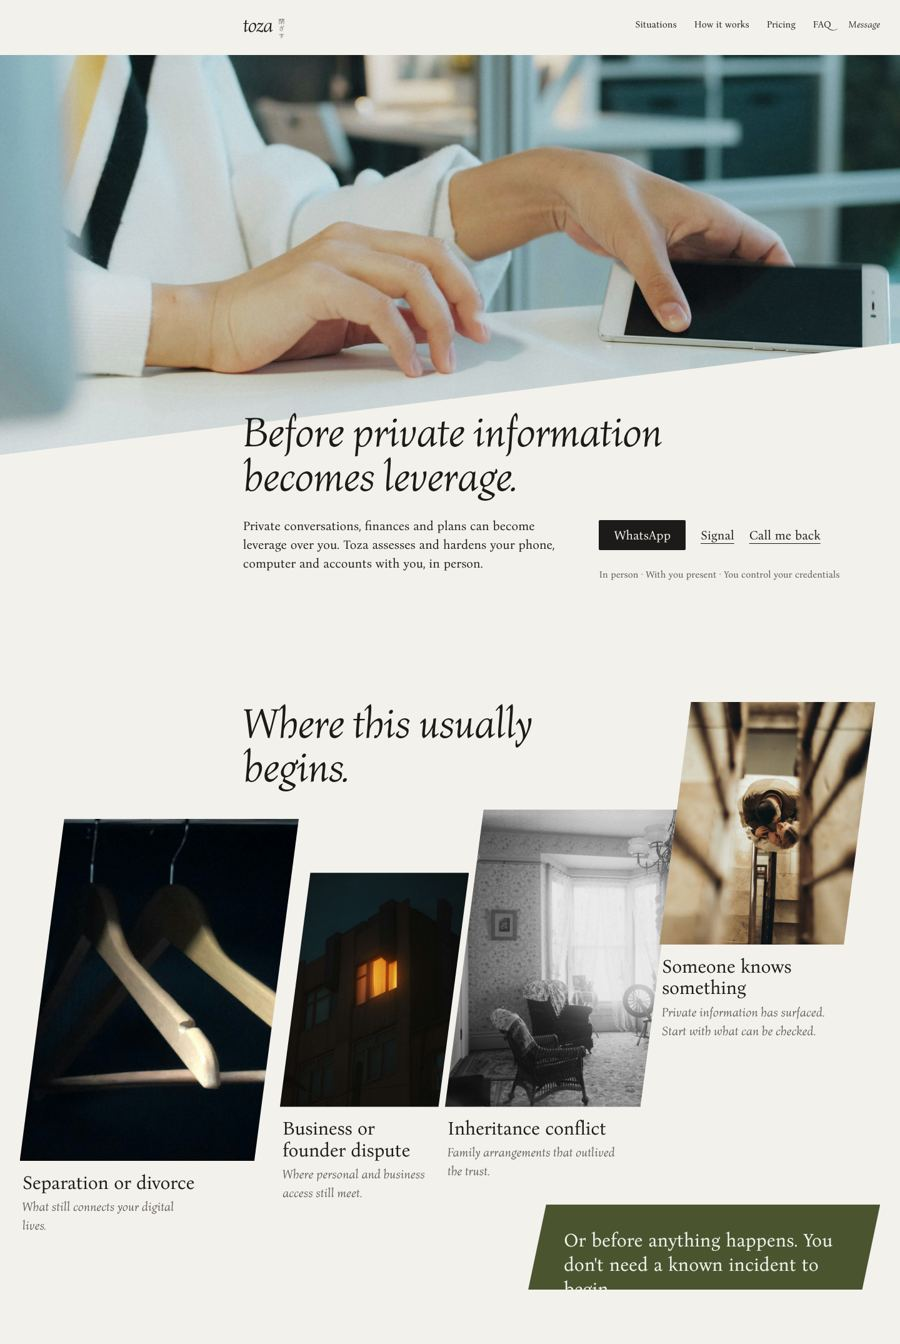
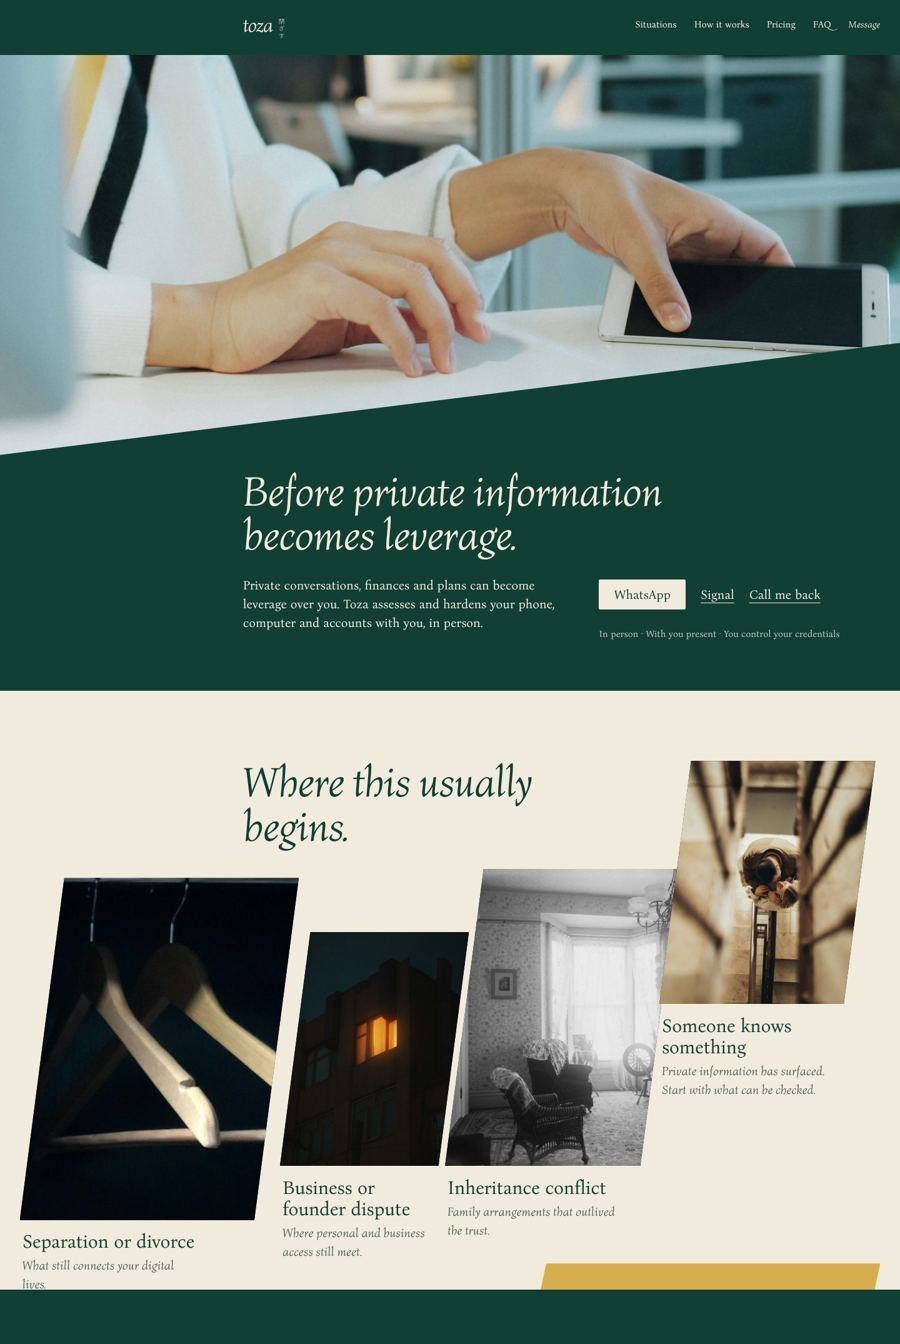
Five radically different full-field palettes for board 2 (D42)
Claude-Session: https://claude.ai/code/session_01GXSN2Gm78K28T2xn8h7HYg

diff --git a/site/index.html b/site/index.html
@@ -42,24 +42,19 @@ h1{font-weight:400;font-style:italic;font-size:clamp(2.25rem,1.4rem + 3vw,3.75re
     </div>
   </section>
 
-  <h2 style="font-weight:400;font-style:italic;font-size:2rem;margin:0 0 .5rem">Five palettes</h2>
-  <p class="lead">Same board, five colour systems. Each passes WCAG AA for text. Click a palette to open the board in it.</p>
+  <h2 style="font-weight:400;font-style:italic;font-size:2rem;margin:0 0 .5rem">Five palettes, round 2</h2>
+  <p class="lead">Same board, five radically different colour systems: each colours the whole field and switches the situations to a second field. Every text pair passes WCAG AA. Click to open the board in it.</p>
   <div class="palettes">
-    <article class="pal"><a href="b2-quiet/?p=p1"><img src="palettes/p1.jpg" alt=""><h3>1 · Washi and sumi</h3><p>Paper and ink, with deep moss for the one field. Calm, crafted, Japanese restraint.</p>
-      <div class="sw"><span style="background:#F3F1EC;outline:1px solid #ddd"></span><span style="background:#E7E4DD"></span><span style="background:#1C1B19"></span><span style="background:#5D5953"></span><span style="background:#4A5530"></span></div>
-      <div class="hex"><span>#F3F1EC</span><span>#E7E4DD</span><span>#1C1B19</span><span>#5D5953</span><span>#4A5530</span></div></a></article>
-    <article class="pal"><a href="b2-quiet/?p=p2"><img src="palettes/p2.jpg" alt=""><h3>2 · Iron and ash</h3><p>Cool ash ground, iron blue-black ink and field. Precise, discreet, the colder of the five.</p>
-      <div class="sw"><span style="background:#EDEFEE;outline:1px solid #ddd"></span><span style="background:#DFE3E2"></span><span style="background:#152120"></span><span style="background:#53605E"></span><span style="background:#1F3634"></span></div>
-      <div class="hex"><span>#EDEFEE</span><span>#DFE3E2</span><span>#152120</span><span>#53605E</span><span>#1F3634</span></div></a></article>
-    <article class="pal"><a href="b2-quiet/?p=p3"><img src="palettes/p3.jpg" alt=""><h3>3 · Stone and kakishibu</h3><p>Warm stone with persimmon-tannin brown, the colour of the stairwell and the lit window.</p>
-      <div class="sw"><span style="background:#ECE9E3;outline:1px solid #ddd"></span><span style="background:#DFDAD1"></span><span style="background:#231C17"></span><span style="background:#5E554D"></span><span style="background:#6F4428"></span></div>
-      <div class="hex"><span>#ECE9E3</span><span>#DFDAD1</span><span>#231C17</span><span>#5E554D</span><span>#6F4428</span></div></a></article>
-    <article class="pal"><a href="b2-quiet/?p=p4"><img src="palettes/p4.jpg" alt=""><h3>4 · Night window</h3><p>The one dark option: night blue-black with the lamp-light of the lit window as its only accent.</p>
-      <div class="sw"><span style="background:#12161B"></span><span style="background:#1C222A"></span><span style="background:#ECE8E1;outline:1px solid #ddd"></span><span style="background:#A4A8AE"></span><span style="background:#E3A35A"></span></div>
-      <div class="hex"><span>#12161B</span><span>#1C222A</span><span>#ECE8E1</span><span>#A4A8AE</span><span>#E3A35A</span></div></a></article>
-    <article class="pal"><a href="b2-quiet/?p=p5"><img src="palettes/p5.jpg" alt=""><h3>5 · Porcelain and oxblood</h3><p>Near-white porcelain and one deep oxblood field. The most formal: private bank, fine leather.</p>
-      <div class="sw"><span style="background:#F6F6F4;outline:1px solid #ddd"></span><span style="background:#EBEBE7"></span><span style="background:#1F1F1E"></span><span style="background:#5B5B58"></span><span style="background:#6B2724"></span></div>
-      <div class="hex"><span>#F6F6F4</span><span>#EBEBE7</span><span>#1F1F1E</span><span>#5B5B58</span><span>#6B2724</span></div></a></article>
+    <article class="pal"><a href="b2-quiet/?p=p1"><img src="palettes/p1.jpg" alt=""><h3>1 · Bottle green</h3><p>A deep green field with cream type; the situations on cream; ochre as the one accent. Old-world private bank, discreet.</p>
+      <div class="sw"><span style="background:#123F33"></span><span style="background:#F1EBDD"></span><span style="background:#4C6158"></span><span style="background:#D7AE4E"></span></div><div class="hex"><span>#123F33<br>field</span><span>#F1EBDD<br>ink / section</span><span>#4C6158<br>muted</span><span>#D7AE4E<br>accent</span></div></a></article>
+    <article class="pal"><a href="b2-quiet/?p=p2"><img src="palettes/p2.jpg" alt=""><h3>2 · Ultramarine</h3><p>Saturated ultramarine with white; the situations on stone in ultramarine ink. Confident, contemporary, unmistakable.</p>
+      <div class="sw"><span style="background:#1B2A9C"></span><span style="background:#FFFFFF"></span><span style="background:#EEECE7"></span><span style="background:#4A5296"></span></div><div class="hex"><span>#1B2A9C<br>field</span><span>#FFFFFF<br>ink</span><span>#EEECE7<br>section</span><span>#4A5296<br>muted</span></div></a></article>
+    <article class="pal"><a href="b2-quiet/?p=p3"><img src="palettes/p3.jpg" alt=""><h3>3 · Saffron and black</h3><p>A saffron field with near-black type; the situations turn black with saffron type. The boldest; light that warns.</p>
+      <div class="sw"><span style="background:#E3A82B"></span><span style="background:#17140F"></span><span style="background:#C9B48A"></span><span style="background:#4A3A17"></span></div><div class="hex"><span>#E3A82B<br>field</span><span>#17140F<br>ink / section</span><span>#C9B48A<br>muted</span><span>#4A3A17<br>muted 2</span></div></a></article>
+    <article class="pal"><a href="b2-quiet/?p=p4"><img src="palettes/p4.jpg" alt=""><h3>4 · Oxblood</h3><p>Deep oxblood with pale stone type; the situations on stone. Leather, wine, a closed room.</p>
+      <div class="sw"><span style="background:#4E1719"></span><span style="background:#F1E3D6"></span><span style="background:#7A4A44"></span><span style="background:#D2B5A6"></span></div><div class="hex"><span>#4E1719<br>field</span><span>#F1E3D6<br>ink / section</span><span>#7A4A44<br>muted</span><span>#D2B5A6<br>muted 2</span></div></a></article>
+    <article class="pal"><a href="b2-quiet/?p=p5"><img src="palettes/p5.jpg" alt=""><h3>5 · Sky and navy</h3><p>Pale sky with navy type; the situations turn navy at night. Calm by day, closed at night.</p>
+      <div class="sw"><span style="background:#C6DBE8"></span><span style="background:#13233D"></span><span style="background:#34496A"></span><span style="background:#9FB4C8"></span></div><div class="hex"><span>#C6DBE8<br>field</span><span>#13233D<br>ink / section</span><span>#34496A<br>muted</span><span>#9FB4C8<br>muted 2</span></div></a></article>
   </div>
 </div>
 </body>

diff --git a/site/b2-quiet/index.html b/site/b2-quiet/index.html
@@ -26,13 +26,15 @@
   --radius:2px; --ease:cubic-bezier(.2,.7,.2,1);
 }
 /* Five candidate palettes (review round 3). Open with ?p=p1 … ?p=p5; no parameter = the current greys and mint. */
-html[data-palette="p1"]{--bg:#F3F1EC;--surface:#E7E4DD;--ink:#1C1B19;--muted:#5D5953;--accent:#4A5530;--accent-ink:#F3F1EC}
-html[data-palette="p2"]{--bg:#EDEFEE;--surface:#DFE3E2;--ink:#152120;--muted:#53605E;--accent:#1F3634;--accent-ink:#EDEFEE}
-html[data-palette="p3"]{--bg:#ECE9E3;--surface:#DFDAD1;--ink:#231C17;--muted:#5E554D;--accent:#6F4428;--accent-ink:#F4EFE8}
-html[data-palette="p4"]{--bg:#12161B;--surface:#1C222A;--ink:#ECE8E1;--muted:#A4A8AE;--accent:#E3A35A;--accent-ink:#16120D}
-html[data-palette="p5"]{--bg:#F6F6F4;--surface:#EBEBE7;--ink:#1F1F1E;--muted:#5B5B58;--accent:#6B2724;--accent-ink:#F6F6F4}
-html[data-palette="p4"] h1{margin-block-start:1.5rem} /* light ink cannot sit on the light photo */
-html[data-palette="p4"] .btn:hover{background:#fff}
+html[data-palette="p1"]{--bg:#123F33;--surface:#0D3328;--ink:#F1EBDD;--muted:#BFC8BC;--s-bg:#F1EBDD;--s-ink:#123F33;--s-muted:#4C6158;--accent:#D7AE4E;--accent-ink:#123F33}
+html[data-palette="p2"]{--bg:#1B2A9C;--surface:#15217F;--ink:#FFFFFF;--muted:#C9CEF2;--s-bg:#EEECE7;--s-ink:#1B2A9C;--s-muted:#4A5296;--accent:#1B2A9C;--accent-ink:#FFFFFF}
+html[data-palette="p3"]{--bg:#E3A82B;--surface:#D69B1F;--ink:#17140F;--muted:#4A3A17;--s-bg:#17140F;--s-ink:#E3A82B;--s-muted:#C9B48A;--accent:#E3A82B;--accent-ink:#17140F}
+html[data-palette="p4"]{--bg:#4E1719;--surface:#421214;--ink:#F1E3D6;--muted:#D2B5A6;--s-bg:#F1E3D6;--s-ink:#4E1719;--s-muted:#7A4A44;--accent:#4E1719;--accent-ink:#F1E3D6}
+html[data-palette="p5"]{--bg:#C6DBE8;--surface:#B4CEDE;--ink:#13233D;--muted:#34496A;--s-bg:#13233D;--s-ink:#C6DBE8;--s-muted:#9FB4C8;--accent:#C6DBE8;--accent-ink:#13233D}
+html[data-palette="p1"] h1,html[data-palette="p2"] h1,html[data-palette="p4"] h1{margin-block-start:1.5rem} /* light ink cannot sit on the light photo */
+html[data-palette] .doors{background:var(--s-bg);color:var(--s-ink)}
+html[data-palette] .doors .tile{color:var(--s-ink)}
+html[data-palette] .doors .tile .l{color:var(--s-muted)}
 *,*::before,*::after{box-sizing:border-box}
 body{margin:0;background:var(--bg);color:var(--ink);font:400 var(--step-body)/1.5 "Bona Nova",Georgia,serif;font-kerning:normal}
 a{color:inherit}

diff --git a/SPEC.md b/SPEC.md
@@ -129,3 +129,4 @@ All five must also avoid:
 | D39 | 16:23. Too many right angles, too static. New rule: one diagonal angle (about 7°, "a door closing") cuts the hero photo's lower edge, every situation photo and the mint field. Panels sit at uneven sizes and heights and lean into each other. Phone: two columns, staggered. |
 | D40 | 16:54. Early drafts removed: boards 3 and 4 (their pages, images, screenshots, direction sheets and their fonts), unused board-2 v1 images, and BOARD-PLANS.md. All remain in git history. |
 | D41 | Five candidate palettes for board 2, each passing AA for text: p1 Washi and sumi, p2 Iron and ash, p3 Stone and kakishibu, p4 Night window (the dark one; the headline does not cross the photo there), p5 Porcelain and oxblood. Preview with `?p=p1` … `?p=p5`. Open: choice (O5). |
+| D42 | 17:03. Round-1 palettes rejected as variations of the current one. They are replaced by five radically different full-field palettes. Each colours the whole page and switches the situations to a second field: p1 Bottle green / cream / ochre; p2 Ultramarine / white / stone; p3 Saffron / black; p4 Oxblood / stone; p5 Sky / navy. On dark fields the headline does not cross the photo. Open: choice (O5). |
